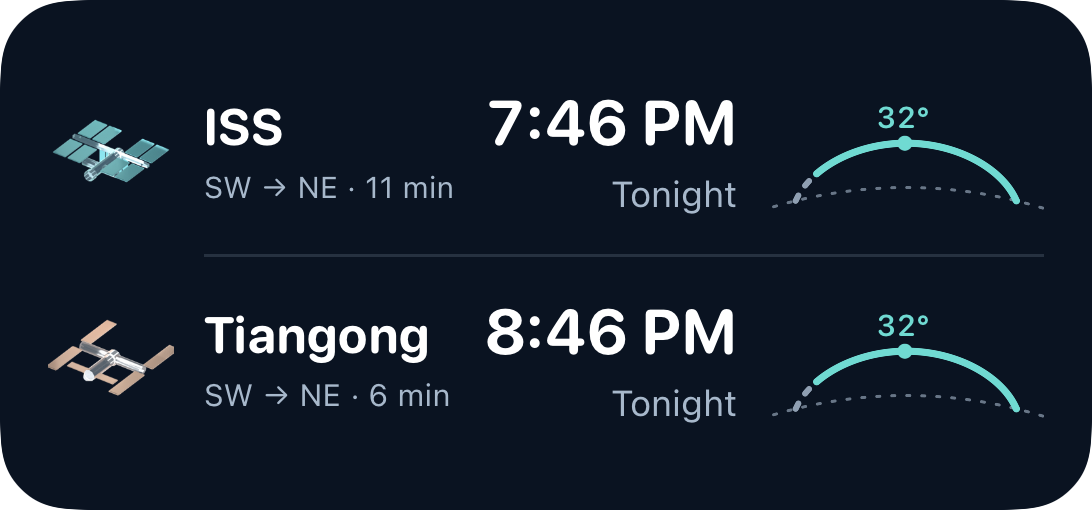
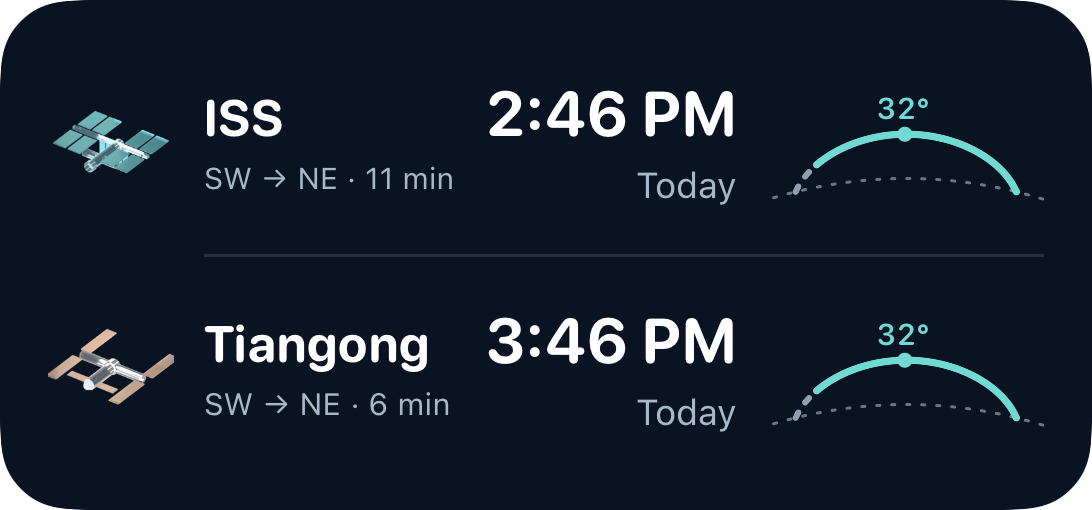
Replace the system widget inset with tighter medium margins
The widget disables the 16 pt content margins and applies its own: 10 pt top and
bottom on medium so the two station rows fill the height, 16 pt elsewhere. The
preview host uses the same insets.

diff --git a/SatelliteForecastTests/ScreenSnapshotTests.swift b/SatelliteForecastTests/ScreenSnapshotTests.swift
@@ -71,7 +71,7 @@ final class ScreenSnapshotTests: XCTestCase {
         ]
         for (name, family, size, chart, station, data) in cases {
             let content = StationWidgetView(forecast: data, date: now, family: family, chart: chart, station: station)
-                .padding(16)
+                .padding(StationWidgetView.contentPadding(for: family))
                 .frame(width: size.width, height: size.height)
                 .background(StationWidgetView.background)
                 .clipShape(RoundedRectangle(cornerRadius: 24))
@@ -84,7 +84,7 @@ final class ScreenSnapshotTests: XCTestCase {
         }
         func preview(_ family: WidgetFamily, chart: Bool, size: CGSize) -> some View {
             StationWidgetView(forecast: forecast, date: now, family: family, chart: chart)
-                .padding(16).frame(width: size.width, height: size.height)
+                .padding(StationWidgetView.contentPadding(for: family)).frame(width: size.width, height: size.height)
                 .background(StationWidgetView.background)
                 .clipShape(RoundedRectangle(cornerRadius: 24))
         }
@@ -134,7 +134,7 @@ final class ScreenSnapshotTests: XCTestCase {
                     AnyView(VStack(alignment: .leading, spacing: 4) {
                         Text("\(name) · \(locale) · \(typeName)").font(.system(size: 11)).foregroundStyle(.white)
                         StationWidgetView(forecast: forecast, date: now, family: family, chart: chart, station: 48274)
-                            .padding(16).frame(width: size.width, height: size.height)
+                            .padding(StationWidgetView.contentPadding(for: family)).frame(width: size.width, height: size.height)
                             .background(StationWidgetView.background)
                             .border(.red.opacity(0.6), width: 0.5)
                             .environment(\.dynamicTypeSize, typeSize)
@@ -191,7 +191,7 @@ final class ScreenSnapshotTests: XCTestCase {
             let margin: CGFloat = 24
             let view = StationWidgetView(forecast: forecast(state, station: station), date: now,
                 family: family, chart: chart, station: station)
-                .padding(16).frame(width: size.width, height: size.height)
+                .padding(StationWidgetView.contentPadding(for: family)).frame(width: size.width, height: size.height)
                 .background(StationWidgetView.background).border(.red.opacity(0.65), width: 0.5)
                 .padding(margin)
                 .environment(\.locale, Locale(identifier: locale)).environment(\.calendar, calendar)

diff --git a/SatelliteForecastWidget/SatelliteForecastWidget.swift b/SatelliteForecastWidget/SatelliteForecastWidget.swift
@@ -62,6 +62,7 @@ struct StationWidgetEntryView: View {
     var body: some View {
         StationWidgetView(forecast: entry.forecast, date: entry.date, family: family,
                           chart: entry.configuration.layout == .chart, station: entry.configuration.station.norad)
+            .padding(StationWidgetView.contentPadding(for: family))
             .containerBackground(StationWidgetView.background, for: .widget)
     }
 }
@@ -74,6 +75,8 @@ struct SatelliteForecastWidget: Widget {
         .configurationDisplayName("Space Station Passes")
         .description("The next visible ISS and Tiangong passes for your app location. Choose two station rows or a simple chart in the small size.")
         .supportedFamilies([.systemSmall, .systemMedium, .systemLarge])
+        // The 16 pt system inset leaves the medium rows floating; use our own tighter margins.
+        .contentMarginsDisabled()
     }
 }
 

diff --git a/Frameworks/SatelliteForecast/WidgetSupport/StationWidgetView.swift b/Frameworks/SatelliteForecast/WidgetSupport/StationWidgetView.swift
@@ -15,6 +15,12 @@ public struct StationWidgetView: View {
     private let accent = Color(red: 112/255, green: 218/255, blue: 210/255)
     private let muted = Color(red: 167/255, green: 184/255, blue: 203/255)
     public static let background = Color(red: 10/255, green: 19/255, blue: 33/255)
+    /// Margins applied by the host in place of the system's 16 pt content inset. The
+    /// medium rows use 10 pt top and bottom so the two rows fill the widget height.
+    public static func contentPadding(for family: WidgetFamily) -> EdgeInsets {
+        family == .systemMedium ? EdgeInsets(top: 10, leading: 16, bottom: 10, trailing: 16)
+            : EdgeInsets(top: 16, leading: 16, bottom: 16, trailing: 16)
+    }
 
     public init(forecast: WidgetForecast?, date: Date, family: WidgetFamily, chart: Bool = false, station: Int = 25544) {
         self.forecast = forecast
